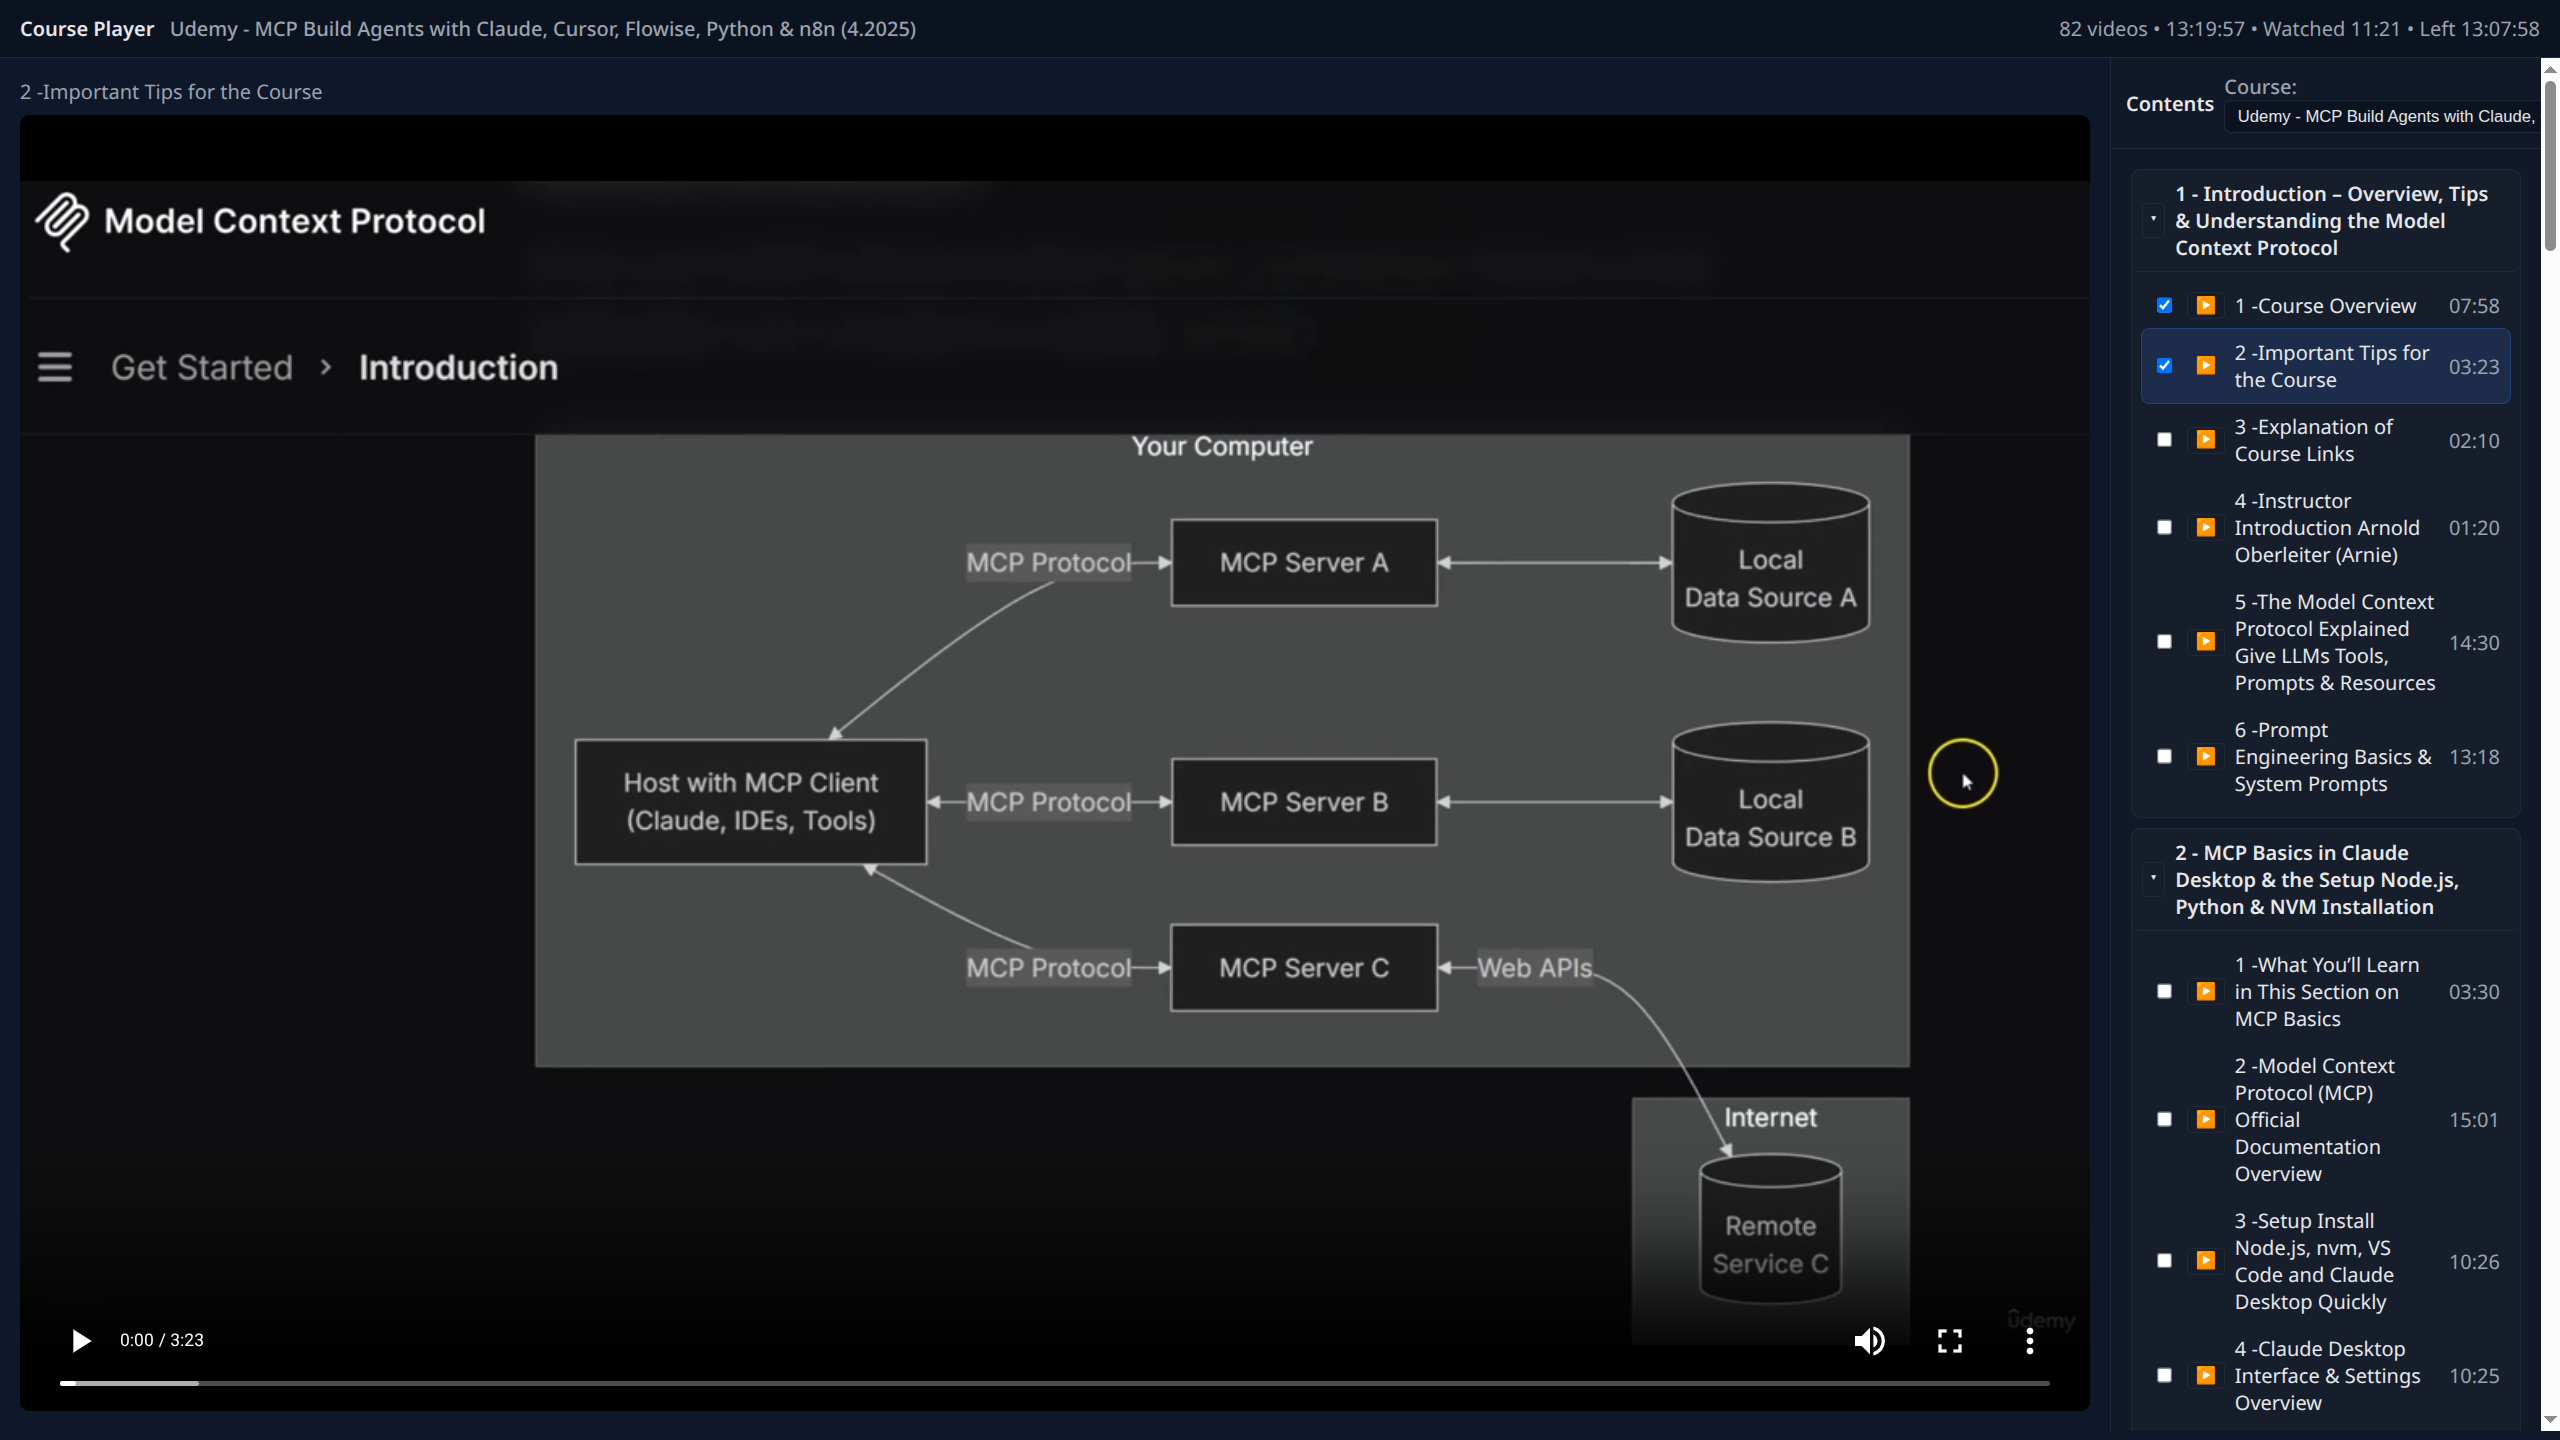
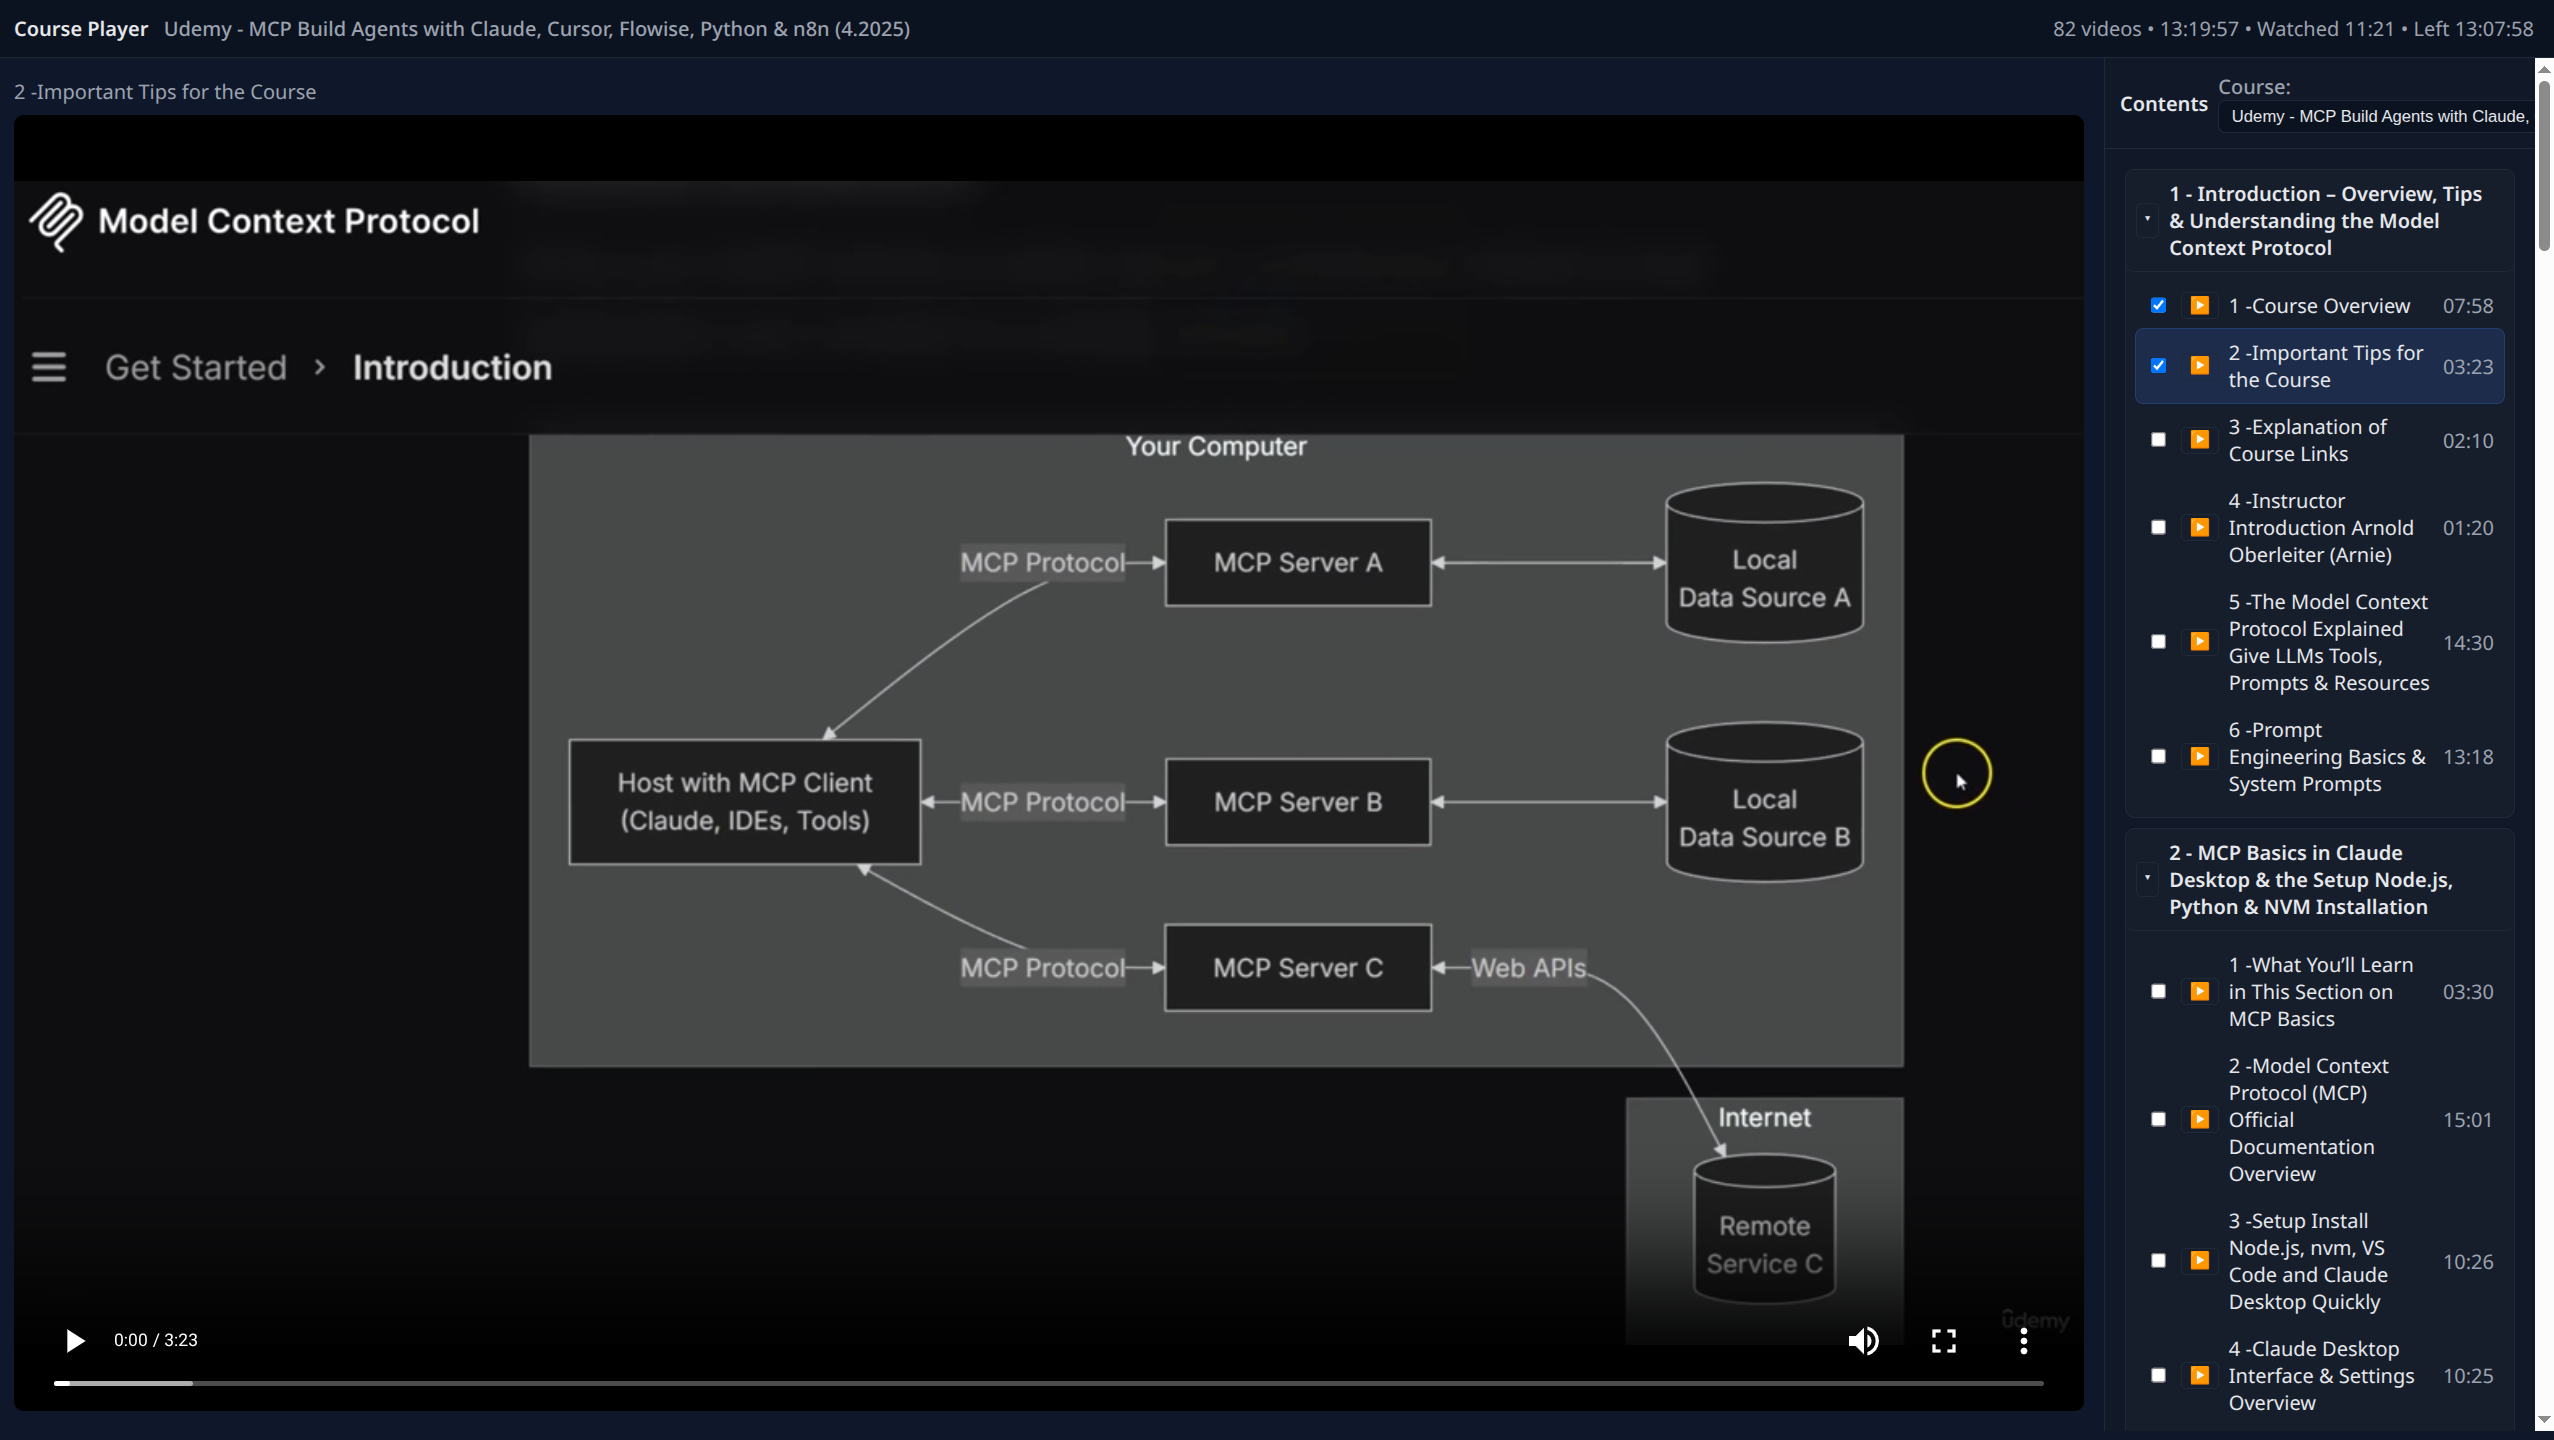
fix screenshot path

diff --git a/README.md b/README.md
@@ -2,7 +2,7 @@
 
 A minimal in-browser video player that scans a course directory, orders items numerically (e.g. `1...`, `2...`), supports nested folders as groups, streams videos with HTTP range requests, shows per-item and per-group durations, and tracks completed videos (checkbox history stored in `localStorage`).
 
-![Course Player Screenshot](player.png)
+![Course Player Screenshot](media/player.png)
 
 ## Features
 - Numeric ordering across files and folders: `1 Intro.mp4`, `2 Setup/`, `3 Advanced/`...